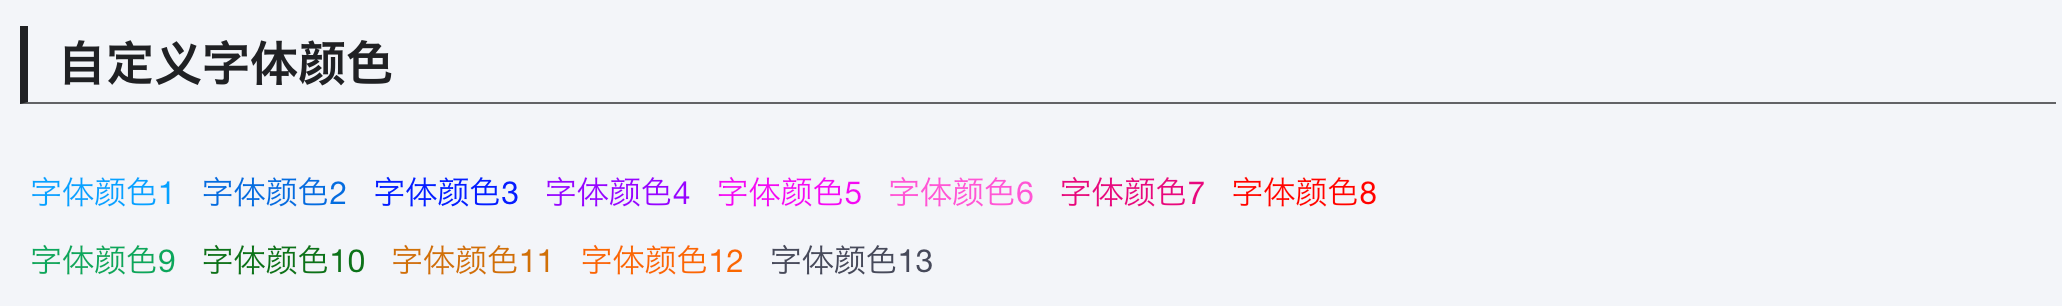
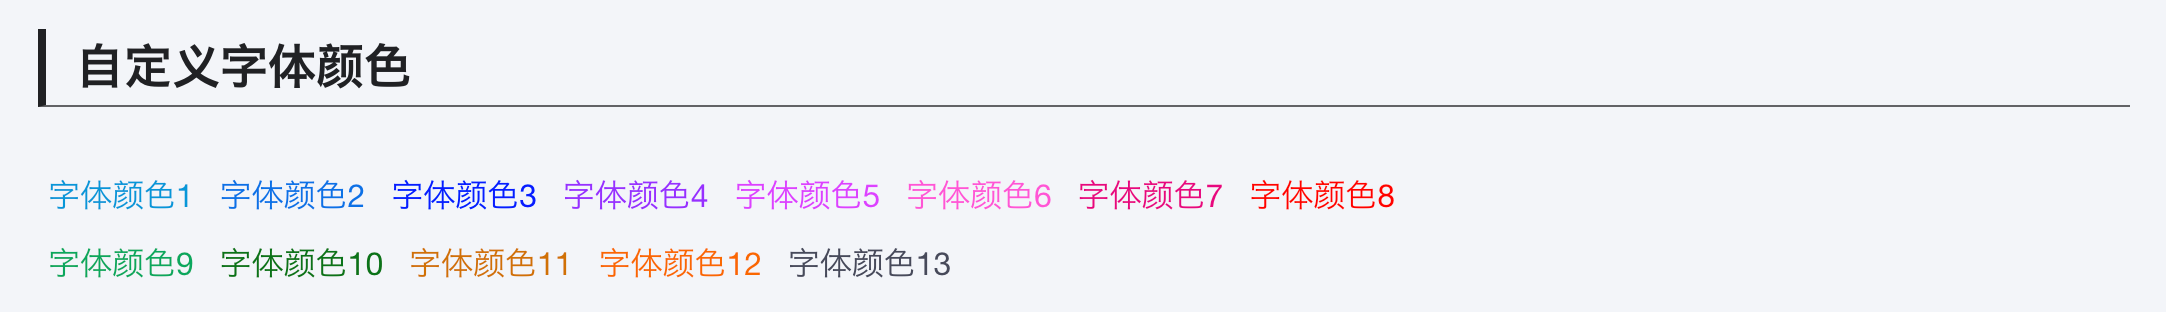
修改README.md及图片

Changed region(s): [[0.0, 0.5588, 0.6828, 0.6765], [0.0, 0.0882, 1.0, 0.3529], [0.0, 0.7941, 0.4656, 0.9118]]

diff --git a/README.md b/README.md
@@ -4,6 +4,10 @@
 
 A light theme for [SiYuan](http://github.com/siyuan-note/siyuan).
 
+### Note
+
+下面展示的尽量是最新代码的样式。已发布的 lastest 版本并不一定是最新代码。
+
 ### Preview
 
 整体采用融为一体的、朦胧、清爽的风格。
@@ -34,11 +38,19 @@ A light theme for [SiYuan](http://github.com/siyuan-note/siyuan).
 
 ![1682432959720](image/README/table.png)
 
+### Font Color
+
+注：随时会调整
+
+![1682432959720](https://file+.vscode-resource.vscode-cdn.net/Users/oilo/DEV/Projects/Proj-VSCode/SiYuan-Themes/RQU-MoonLight/image/README/fontcolor.png)
+
 ### Background Color
 
 将字体背景色添加了边距和圆角，这样看起来好看些。
 
 最后一种背景色，可以用作将某些文字遮盖。
+
+注：随时会调整
 
 ![1682432959720](https://file+.vscode-resource.vscode-cdn.net/Users/oilo/DEV/Projects/Proj-VSCode/SiYuan-Themes/RQU-MoonLight/image/README/backgroundcolor.png)
 
